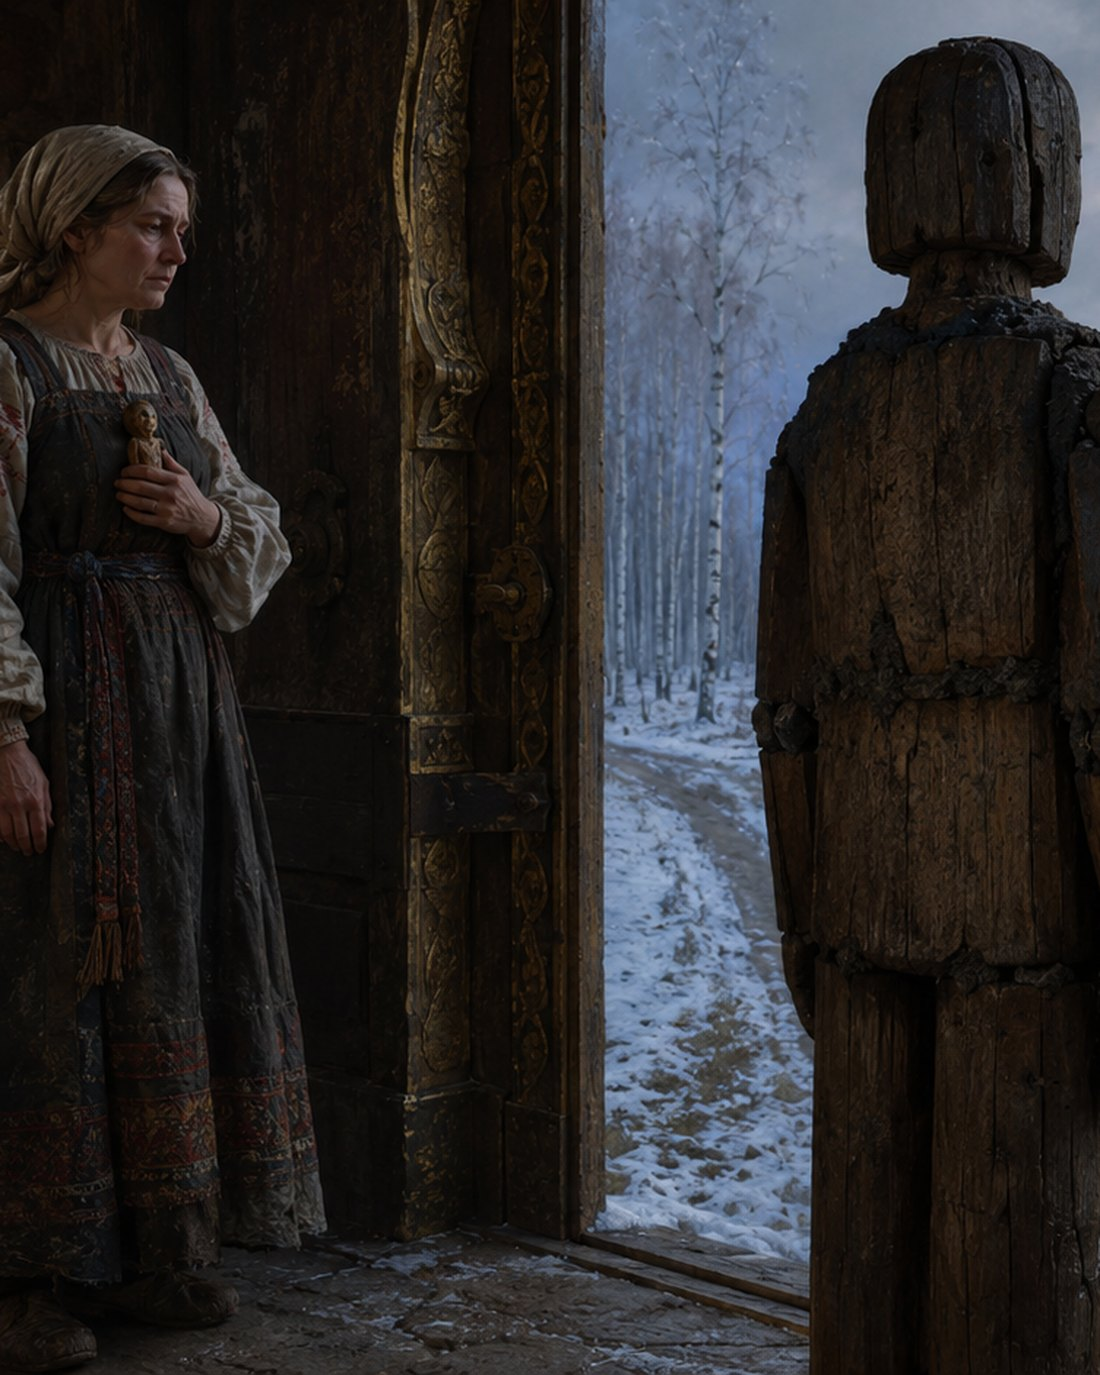
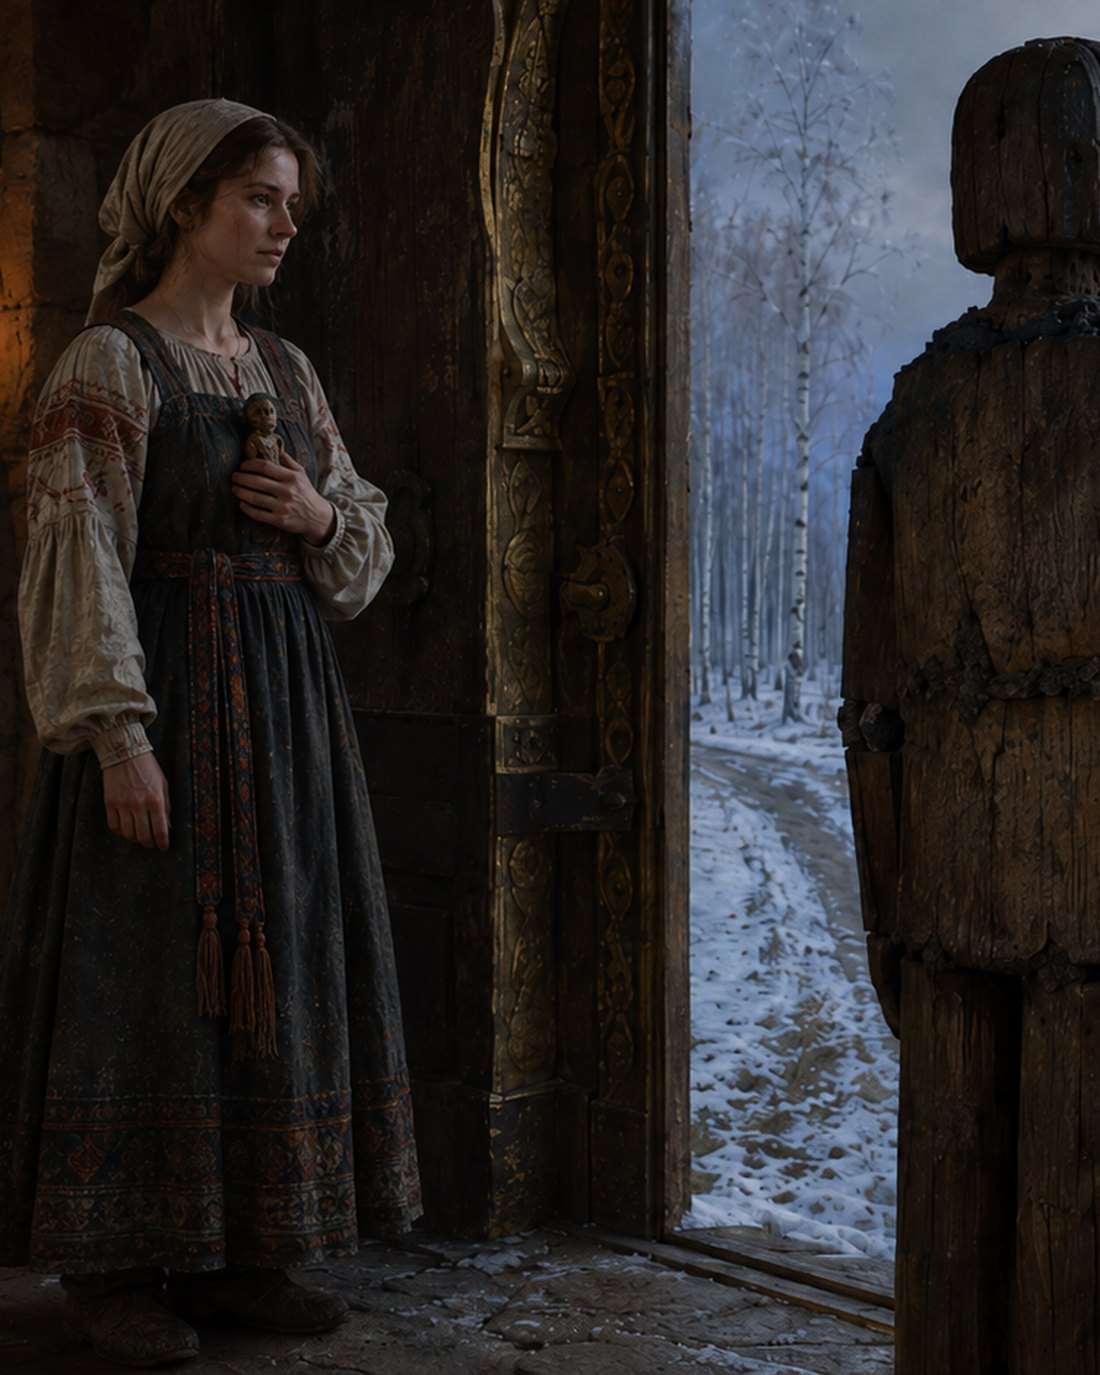
feat: illustrate The Road of the Living Water, re-cut The Choice
Tale four had run without art since it was published; it now carries the
scene at the spring — Vasilisa holding the cup to the lost boy, the doll in
her apron pocket, the burned country behind. Tale seven is re-cut from a new
render in which she is younger and the road forks visibly past the Walker.

Both sources are landscape and the art column is 4:5, so a centred crop would
have cut one figure out of each. Tale four is taken from x=330 to hold the
cup, both faces and the spring; tale seven from x=265 to hold her full figure
and as much of the Quiet Walker as the ratio allows, which costs the icon
corner at the far left.

No cache-buster on the replaced tale-seven file: Vercel serves these with
max-age=0, must-revalidate, so the new ETag is enough.

The volume now reads art and alt text out of short-stories.html instead of
restating them, so an illustration only has to be described in one place and
the two pages cannot disagree about what is on the page.

Three fixes to the volume's own chrome, all caught on screen:
- the title-page flame sat left, since margin:auto does nothing for an svg in
  a full-width block; it centres itself now
- the nav language switch inflated into a circle, stretched by .nav__links to
  the height of a wrapped link beside it
- the switch moves to the end of the nav. It is a button, and the phone rule
  only hides the fourth-and-later nav ANCHORS, so it survives the cut there
[…]

diff --git a/vasilisa.html b/vasilisa.html
@@ -40,14 +40,15 @@
     <span class="nav__wordmark">The Lit Room</span>
   </a>
   <nav class="nav__links">
-    <!-- Kept first so it survives the phone cut: a volume this long needs the
-         switch within reach at any depth. -->
-    <button class="nav__lang" type="button" data-vol-lang aria-pressed="false">Рус</button>
     <a href="#contents">Contents</a>
     <a href="short-stories.html">Short Stories</a>
     <a href="/">The Lit Room</a>
     <!-- Revealed by notify.js alongside the signup band it points at. -->
     <a class="nav__notify" href="#notify" data-notify hidden>Get notified</a>
+    <!-- A button, not a link, so the phone rule that hides the fourth-and-later
+         nav ANCHORS leaves it alone: a volume this long needs the switch within
+         reach at any depth. -->
+    <button class="nav__lang" type="button" data-vol-lang aria-pressed="false">Рус</button>
   </nav>
 </header>
 
@@ -405,6 +406,9 @@
     </article>
 
     <article class="tale" id="tale-4" data-tale="living-water">
+      <figure class="tale__art">
+        <img src="assets/images/story-vasilisa-4.jpg" alt="In a burned birch grove under a low grey sky, Vasilisa kneels in an embroidered sarafan and headscarf, holding a small cup to the lips of a ragged boy wrapped in a blanket; the little carved doll rides in her apron pocket, a clear spring runs over stones in the foreground, and behind them the scorched land rises to a ruin on the hill with figures on the road." loading="lazy" />
+      </figure>
       <header class="tale__head">
         <div class="tale__num">
           <span class="lang-block" data-lang="en">Tale the Fourth</span>
@@ -873,7 +877,7 @@
 
     <article class="tale" id="tale-7" data-tale="the-choice">
       <figure class="tale__art">
-        <img src="assets/images/story-vasilisa-7.jpg" alt="In the open doorway of a house of gold and stone, Nika stands in an embroidered sarafan with the small carved doll held against her heart, looking out past the gilded door; facing her across the threshold stands the tall rough wooden figure of the Quiet Walker, and between them a road runs out through snow and birches into the winter dusk." loading="lazy" />
+        <img src="assets/images/story-vasilisa-7.jpg" alt="Inside a doorway of gold and dark stone, Nika stands in an embroidered sarafan with the small carved doll held against her heart, an icon lamp burning out of frame to her left; across the open gilded door stands the tall rough wooden figure of the Quiet Walker, its back to us, and past it a road runs out through snow and birches into the winter dusk." loading="lazy" />
       </figure>
       <header class="tale__head">
         <div class="tale__num">

diff --git a/short-stories.html b/short-stories.html
@@ -505,7 +505,10 @@
       </li>
 
       <!-- THE ROAD OF THE LIVING WATER -->
-      <li class="chapter chapter--no-art" id="living-water" data-reveal>
+      <li class="chapter" id="living-water" data-reveal>
+        <figure class="chapter__art">
+          <img src="assets/images/story-vasilisa-4.jpg" alt="In a burned birch grove under a low grey sky, Vasilisa kneels in an embroidered sarafan and headscarf, holding a small cup to the lips of a ragged boy wrapped in a blanket; the little carved doll rides in her apron pocket, a clear spring runs over stones in the foreground, and behind them the scorched land rises to a ruin on the hill with figures on the road." />
+        </figure>
         <div class="chapter__head">
           <div class="chapter__num">Fairy tale · Slavic folklore · Tale the Fourth · Revised August 2026</div>
           <h3 class="chapter__title">The Road of the Living Water</h3>
@@ -1041,7 +1044,7 @@
       <!-- THE CHOICE -->
       <li class="chapter" id="the-choice" data-reveal>
         <figure class="chapter__art">
-          <img src="assets/images/story-vasilisa-7.jpg" alt="In the open doorway of a house of gold and stone, Nika stands in an embroidered sarafan with the small carved doll held against her heart, looking out past the gilded door; facing her across the threshold stands the tall rough wooden figure of the Quiet Walker, and between them a road runs out through snow and birches into the winter dusk." />
+          <img src="assets/images/story-vasilisa-7.jpg" alt="Inside a doorway of gold and dark stone, Nika stands in an embroidered sarafan with the small carved doll held against her heart, an icon lamp burning out of frame to her left; across the open gilded door stands the tall rough wooden figure of the Quiet Walker, its back to us, and past it a road runs out through snow and birches into the winter dusk." />
         </figure>
         <div class="chapter__head">
           <div class="chapter__num">Fairy tale · Slavic folklore · Tale the Seventh · August 2026</div>

diff --git a/assets/vasilisa.css b/assets/vasilisa.css
@@ -21,9 +21,11 @@
   text-align: center;
 }
 .vol-title__flame {
+  display: flex;
+  justify-content: center;
   color: var(--amber);
   filter: drop-shadow(0 0 12px var(--amber-glow));
-  margin: 0 auto var(--s-6);
+  margin: 0 0 var(--s-6);
   transform-origin: 50% 90%;
   animation: lamp-flicker 3.4s var(--ease) infinite;
 }
@@ -289,8 +291,12 @@
 /* The nav twin: the same switch, small enough to ride along all the way down
    a volume this long. */
 .nav__lang {
+  /* .nav__links stretches its children by default, which would blow the pill up
+     into a circle as tall as the tallest wrapped link beside it. */
+  align-self: center;
   font-family: var(--ui);
   font-size: var(--text-xs);
+  line-height: 1.2;
   letter-spacing: 0.16em;
   text-transform: uppercase;
   font-weight: 500;
@@ -320,6 +326,13 @@
 }
 
 @media (max-width: 720px) {
+  /* The nav carries one link too many for a phone once the language switch is
+     in it. The brand already goes home, and the tales-one-at-a-time link lives
+     at the foot of the volume, so both give way to Contents and the switch. */
+  .nav__links a[href="short-stories.html"],
+  .nav__links a[href="/"] { display: none; }
+  .nav__lang { padding: var(--s-1) var(--s-3); letter-spacing: 0.1em; }
+
   .vol-title { padding: var(--s-8) var(--s-5) var(--s-7); }
   .vol-contents { padding: var(--s-7) var(--s-5) var(--s-8); }
   .vol-body { padding: 0 var(--s-5) var(--s-8); }
